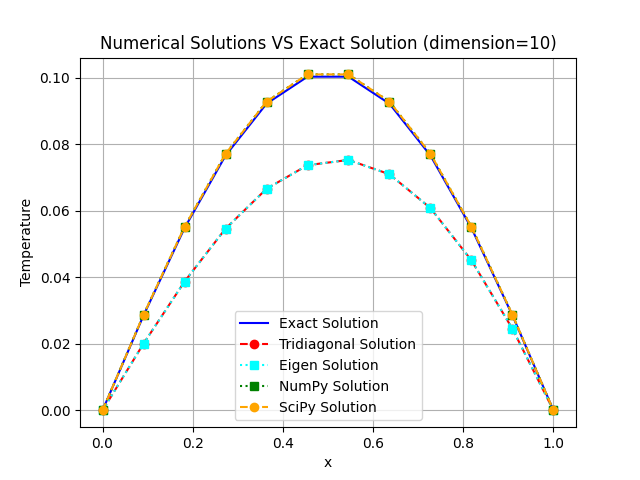
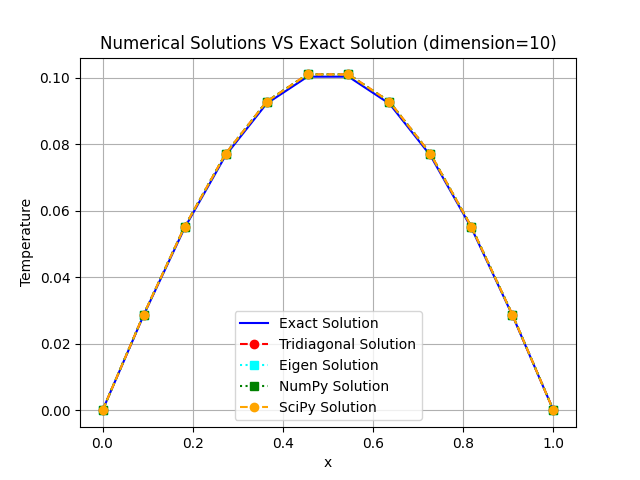
fixed h in HeatDiffusion for consistency

diff --git a/Exam projects/Thomas Algorithm for heat diffusion problem/main/main.py b/Exam projects/Thomas Algorithm for heat diffusion problem/main/main.py
@@ -209,64 +209,12 @@ plt.plot(x_values, solution_scipy, label = 'SciPy Solution', linestyle = '--', m
 
 plt.xlabel('x')
 plt.ylabel('Temperature')
-plt.title('Numerical Solutions VS Exact Solution (dimension=10)')
+plt.title('Numerical Solutions VS Exact Solution')
 plt.legend()
 plt.grid(True)
 # Save the plot
-plt.savefig('images/NumericalVSExactSolution_dim10.png')
+plt.savefig('images/NumericalVSExactSolution.png')
 plt.show()
-
-# -----------------------------------------------------
-# main for Heat Diffusion problem with higher dimension
-# -----------------------------------------------------
-
-print("Setting an higher dimension of the problem, the C++ methods's performances increase:")
-# Redefine what needed exactly as done before
-dimension = 50
-HDproblem3 = moduleH.HeatDiffusion(dimension, L, boundaryCondition, boundaryCondition)
-solutionTridiag_cpp, timesolTridiag_cpp = solveHeatTridiagonal_cpp(HDproblem3, f_cpp)
-errorTridiag_cpp = HDproblem3.validate_solution(solutionTridiag_cpp, exactf_cpp)
-HDproblem4 = moduleH.HeatDiffusion(dimension, L, boundaryCondition, boundaryCondition)
-solutionEigen_cpp, timesolEigen_cpp = solveHeatEigen_cpp(HDproblem4, f_cpp)
-errorEigen_cpp = HDproblem4.validate_solution(solutionEigen_cpp, exactf_cpp)
-solution_numpy, timesol_numpy = solveHeat_numpy(dimension, L, boundaryCondition, boundaryCondition, f_py)
-solution_scipy, timesol_scipy = solveHeat_scipy(dimension, L, boundaryCondition, boundaryCondition, f_py)
-h = L / (dimension + 1)
-exact_solution = [exactf_py(i * h) for i in range(dimension + 2)]
-error_numpy = validate_solution_py(solution_numpy, exact_solution)
-error_scipy = validate_solution_py(solution_scipy, exact_solution)
-
-# Prepare the results to be printed in a more uniform way with tabulate
-header = ["", "Exact", "Tridiagonal", "Eigen", "NumPy", "SciPy"]
-data = [
-        ["Solution[0]", exact_solution[0], solutionTridiag_cpp[0], solutionEigen_cpp[0], solution_numpy[0], solution_scipy[0]],
-        ["Solution[1]", exact_solution[1], solutionTridiag_cpp[1], solutionEigen_cpp[1], solution_numpy[1], solution_scipy[1]],
-        ["Solution[2]", exact_solution[2], solutionTridiag_cpp[2], solutionEigen_cpp[2], solution_numpy[2], solution_scipy[2]],
-        ["Solution[3]", exact_solution[3], solutionTridiag_cpp[3], solutionEigen_cpp[3], solution_numpy[3], solution_scipy[3]],
-        ["Solution[4]", exact_solution[4], solutionTridiag_cpp[4], solutionEigen_cpp[4], solution_numpy[4], solution_scipy[4]],
-        ["Solution[n]", round(exact_solution[-1], 3), solutionTridiag_cpp[-1], solutionEigen_cpp[-1], solution_numpy[-1], solution_scipy[-1]],
-        ["Error against exact solution", None, round(errorTridiag_cpp, 5), round(errorEigen_cpp, 5), round(error_numpy, 5), round(error_scipy, 5)],
-        ["Execution time (s)", None, round(timesolTridiag_cpp, 5), round(timesolEigen_cpp, 5), round(timesol_numpy, 5), round(timesol_scipy, 5)]
-        ]
-print(tabulate(data, header, tablefmt = "fancy_grid"))
-
-
-# Plot exactly as done before
-x_values = [i * h for i in range(dimension + 2)]
-plt.plot(x_values, exact_solution, label = 'Exact Solution', color = 'blue')
-plt.plot(x_values, solutionTridiag_cpp, label = 'Tridiagonal Solution', linestyle = '--', color = 'red')
-plt.plot(x_values, solutionEigen_cpp, label = 'Eigen Solution', linestyle = ':', color = 'cyan')
-plt.plot(x_values, solution_numpy, label = 'NumPy Solution', linestyle = ':', color = 'green')
-plt.plot(x_values, solution_scipy, label = 'SciPy Solution', linestyle = '--', color = 'orange')
-plt.xlabel('x')
-plt.ylabel('Temperature')
-plt.title('Numerical Solutions VS Exact Solution (dimension=50)')
-plt.legend()
-plt.grid(True)
-# Save the plot
-plt.savefig('images/NumericalVSExactSolution_dim50.png')
-plt.show()
-
 
 print("Thomas Algorithm not only solves the heat diffusion problem, but systems of equations with a tridiagonal matrix")
 

diff --git a/Exam projects/Thomas Algorithm for heat diffusion problem/MatrixModule/src/HeatDiffusion.cpp b/Exam projects/Thomas Algorithm for heat diffusion problem/MatrixModule/src/HeatDiffusion.cpp
@@ -45,7 +45,7 @@ std::vector<double> HeatDiffusion::computeHeatSource(const std::string &function
     // Fill the vector domain (i.e. x) with the equally spaced temperatures
     std::vector<double> domain(dimension);
     // Calculate number of spatial steps
-    double h = L / (dimension + 1);
+    double h = L / (dimension - 1);
     for (unsigned int i = 0; i < dimension; ++i) {
         domain[i] = i * h;
     }

diff --git a/Exam projects/Thomas Algorithm for heat diffusion problem/README.md b/Exam projects/Thomas Algorithm for heat diffusion problem/README.md
@@ -29,15 +29,9 @@ The diagonals of this matrix are the diagonal vectors a, b, c defined in each Ma
 
 ## Validation of solutions and considerations
 In the first part of the main, the above heat diffusion problem is solved using four methods: the TridiagonalMatrix and EigenMatrix implemented in C++ and the already existing functions `solve` from `numpy.linalg` and `solve_banded` from `scipy.linalg`. Every method is decorated with a time wrapper so to confront their execution times. Every solution is validated against the exact solution computing the error $\left\|u - u_\mathrm{ex}\right\|$ in Euclidean norm.<br>
-The results obtained with NumPy and SciPy are exactly the same (rounded by 5 digits after the decimal point to a better visualization), except for the time execution which however it is so small that it is imperceptible to the human eye.<br>
-A plot comparing the numerical and exact solutions VS x is shown
+As it can be seen from this plot that compares the numerical and exact solutions VS x, all the results perfectly coincide.
 <p align="center">
-  <img src="images/NumericalVSExactSolution_dim10.png" /><br>
- Numerical Solutions VS Exact Solution
-</p>
-And it can be seen as setting an higher dimension implies a higher exactness of the C++ methods.
-<p align="center">
-  <img src="images/NumericalVSExactSolution_dim50.png" /><br>
+  <img src="images/NumericalVSExactSolution.png" /><br>
  Numerical Solutions VS Exact Solution
 </p>
 A helpful note in case one wishes to reproduce the results, is defining a HeatDiffusion object each time in the main. In fact I had not done it and I was wondering why the Eigen plot and solution were exactly specular to the Tridiagonal ones: solving the heat problem somehow modifies the HeatDiffusion instance thus, having first defined the Tridiagonal one, when later using the Eigen, it starts from opposite values.<br>
